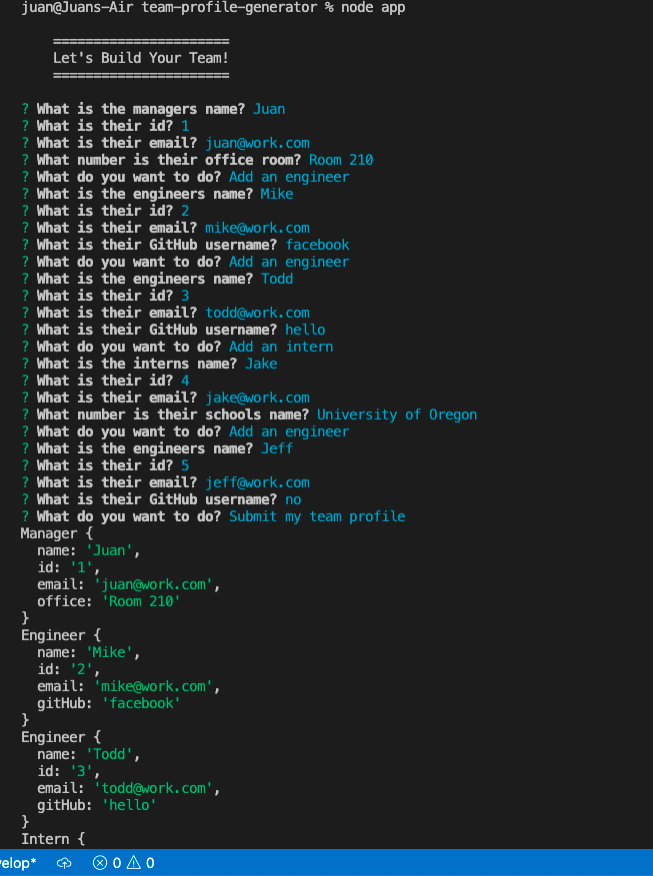
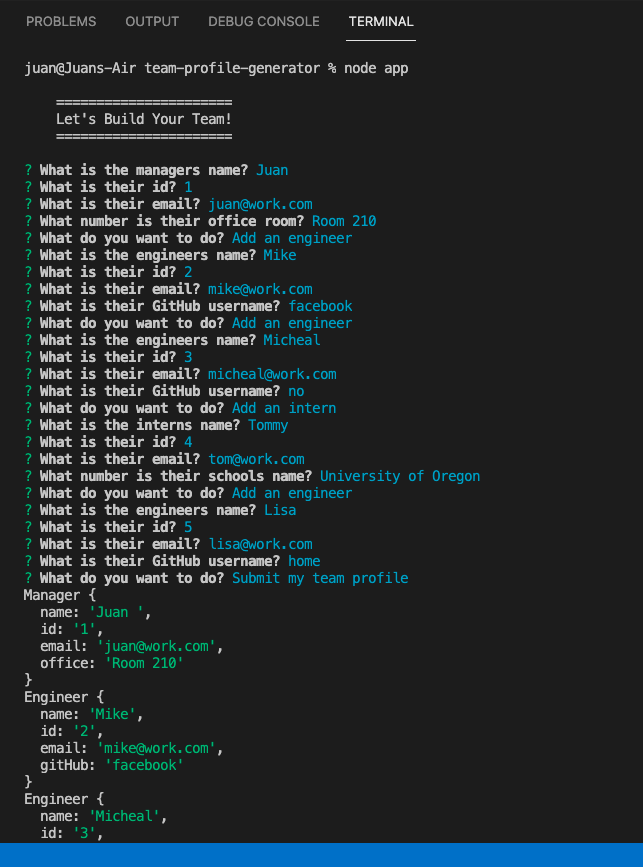
ok im done

diff --git a/dist/index.html b/dist/index.html
@@ -13,7 +13,7 @@
     </header>
     <main class="display-area">
         <section class="manager-card">
-            <h2>Juan</h2>
+            <h2>Juan </h2>
             <h3>Manager</h3>
             <h4>Id: 1</h4>
             <a href="mailto:juan@work.com">Email: juan@work.com</a>
@@ -24,29 +24,29 @@
             <h2>Mike</h2>
             <h3>Engineer</h3>
             <h4>Id: 2</h4>
-            <a href="mailto:mike@work.com">Email: mike@work.com</a> <br>
-            <a href="https://github.com/facebook">github.com/facebook</a>
+            <a href="mailto:mike@work.com">Email: mike@work.com</a> <br> <br>
+            <a href="https://github.com/facebook">Github: facebook</a>
         </section>
         <section class="manager-card">
-            <h2>Todd</h2>
+            <h2>Micheal</h2>
             <h3>Engineer</h3>
             <h4>Id: 3</h4>
-            <a href="mailto:todd@work.com">Email: todd@work.com</a> <br>
-            <a href="https://github.com/hello">github.com/hello</a>
+            <a href="mailto:micheal@work.com">Email: micheal@work.com</a> <br> <br>
+            <a href="https://github.com/no">Github: no</a>
         </section>
         <section class="manager-card">
-            <h2>Jeff</h2>
+            <h2>Lisa</h2>
             <h3>Engineer</h3>
             <h4>Id: 5</h4>
-            <a href="mailto:jeff@work.com">Email: jeff@work.com</a> <br>
-            <a href="https://github.com/no">github.com/no</a>
+            <a href="mailto:lisa@work.com">Email: lisa@work.com</a> <br> <br>
+            <a href="https://github.com/home">Github: home</a>
         </section>
         
         <section class="manager-card">
-            <h2>Jake</h2>
+            <h2>Tommy</h2>
             <h3>Intern</h3>
             <h4>Id: 4</h4>
-            <a href="mailto:jake@work.com">Email: jake@work.com</a>
+            <a href="mailto:tom@work.com">Email: tom@work.com</a>
             <h4>School: University of Oregon</h4>
         </section>
         
